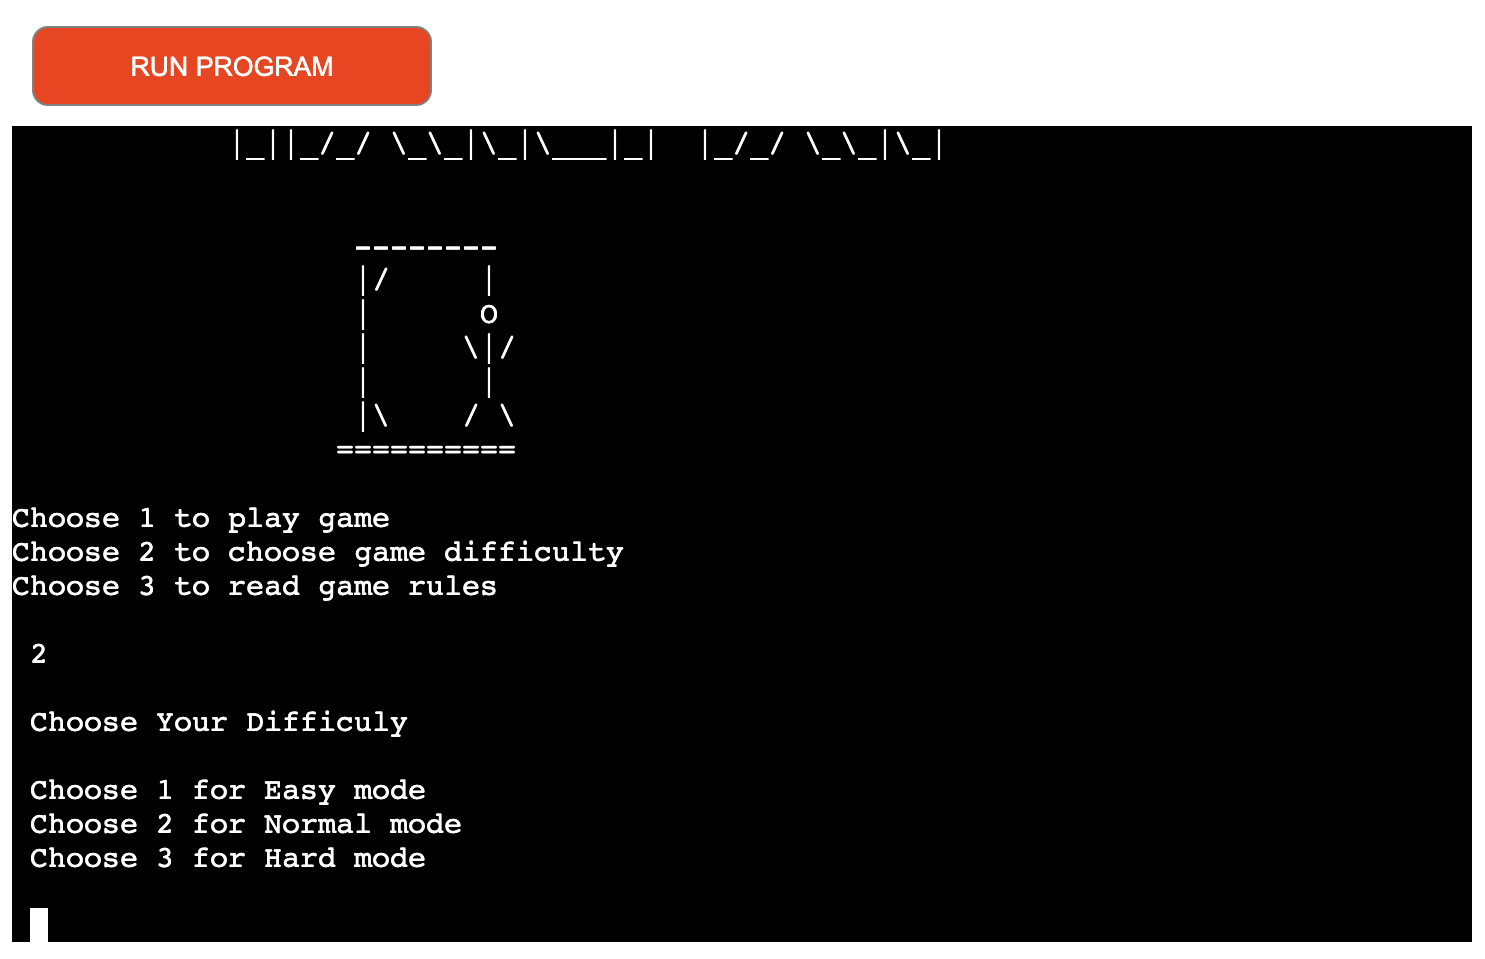
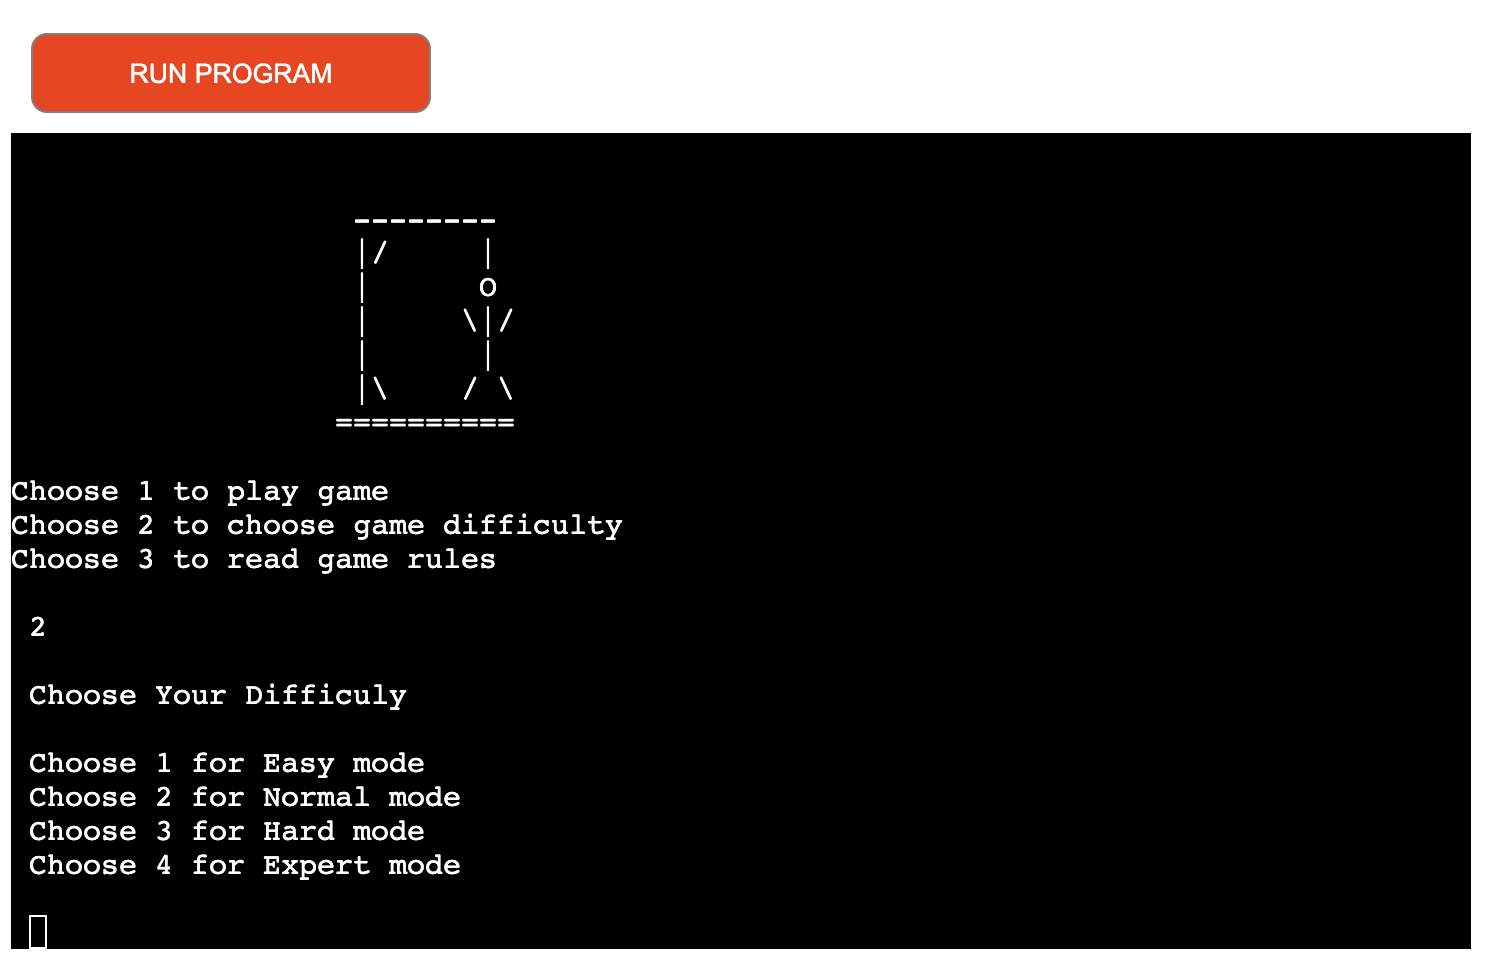
add in corrections to spelling and typos

diff --git a/run.py b/run.py
@@ -8,7 +8,7 @@ def game_menu():
     choose difficulty & view the rules of the game.
     """
     print("Choose 1 to play game")
-    print("Choose 2 to choose game difficulty")
+    print("Choose 2 to choose difficulty")
     print("Choose 3 to read game rules")
     choices = False
     while not choices:
@@ -79,9 +79,10 @@ def start_game(random_word, tries):
     """
     Play game, which sets the initial amount of lives based on players choices.
     when the game is over, based on the outcome of the
-    players guesses graphics will be displayed.
+    Players guess graphics will be displayed.
     Also when game is over gives the player options to
     play again or navigate back to the main menu.
+
     """
     hidden_word = "_" * len(random_word)
     game_over = False
@@ -140,9 +141,9 @@ def start_game(random_word, tries):
     else:
         print("OH NO!\n")
         print("It's a very unfortante day,"
-              " åyou was unable to save the man this time.")
-        print("The correct word was " + random_word + "\n"
-              "Maybe next time you will try harder.")
+              " you was unable to save the man this time.")
+        print("The correct word was " + random_word + ".\n"
+              "Better luck next time.")
         hangman()
 
     game_restart(tries)
@@ -307,7 +308,7 @@ def game_restart(tries):
             main()
 
         else:
-            print(f" You must type Y or N. You typed {(play_again)}")
+            print(f" You must type Y or N. You typed {(play_again)}.")
 
 
 def game_title():
@@ -335,23 +336,23 @@ def rules_of_game():
     print(
         """
         To be a hero today, your goal is simple.
-
-        Guess all letter that make up the word that will save a life.
-
+ 
+        Guess all letters correctly that make up the word that will save a life.
+ 
         If you guess wrong you will lose a life for every wrong guess.
-
+ 
         Be very mindful of your guesses, as too much wrong guesses
         will result in you reaching 0 lives.
-
+ 
         Once you have reached a total of 0 lives, you would have
-        then missed your oppurtunity to save a life,
+        then missed your opportunity to save the man,
         resulting in the man being hanged.
-
+ 
         But we have faith that you will be amazing
         and save many lives today. GODSPEED!
         """
     )
-    main_menu = input("To Return To Main Menu, Press Enter.\n")
+    main_menu = input("To Return To Game Menu, Press Enter.\n")
     print("\n")
     main()
 

diff --git a/README.md b/README.md
@@ -4,37 +4,37 @@ SAVE A LIFE HANGMAN is a fun and entertaining python terminal game, which is uti
 The game is aimed towards mainly develper IDE as a small break game. The game is also aimed to all ages, which have a interest in the programming space. 
 The game allows new and seniors to the coding space to enjoy the fun side of code, having the chance to play around a python based game.
  
-![Responsive Mockup](/assets/images/website-responsive.png)
+![Responsive Mockup](/assets/images/responsive-design.png)
  
 ## Features<hr>
  
 ### Existing Features
  
-- __Play Buttons__
- - Featured at the start of the game, the player is welcomed with the home screen, where the Trihub white logo is presented against the teal background.
- - Below the Trihub logo the user is presented with a play button in the center of the screen __GO!__ which links to the main game page where the  player can begin playing the quiz.
- - The other navigation links are the social pages, which are, Instagram, Discord, and Twitter which links to the different social platforms page opening up a new window when doing so.
- - The logo, play button and social links are all in a font that is congruent with the rest of the pages and a color that contrasts well with the background.
+ __GAME MENU__
+ - At the start if the game the player is greeted with the SAVE A LIFE HANGMAN logo,follow by a repersention of the hanged man. 
+ - Below all of that the player is presented with three options to choose from, which is 1 Play game, 2 choose difficutly and 3 read game rules. 
+ - The player is able to navigate freely through out the game menu to view all these options
  
-![GAME HOME PAGE](/assets/images/home-page.png)
+![GAME HOME PAGE](/assets/images/game-home-screen.png)
  
-- __Game Page__
- - The game page is displayed right after the home page and is identical in style and appearance as the home page.
+ __PLAY GAME__
+ - The play is able to play the game straight away by choosing option 1 which will provide the player with 7 lives, this is also known as the Normal mode. 
+ - upon the player choosing option 1 the game is instantly loaded up with the 7 lives and a random word to start guessing. 
  
-![Game Page](/assets/images/game.png)
+![Play Game](/assets/images/default-mode.png)
+
+ __DIFFICULTY SELECTION__
+ - The difficulty selction is displayed after choosing option 2, which will then display 4 options to choose from the for player. 
+ - 1 for Easy mode, 2 for Normal mode, 3 for Hard Mode and 4 for Expert mode. This gives the player more of a challenge in the game, allowing them to think more carefully before making a decision. 
+ - This Provide less lives the hard the game  is set with 10 for easy, 7 for normal, 5 for hard and lastly 3 for the experts. 
  
-- __Hud Section__
- - The hud section gives the user  information  which question they are on as well as how many questions they have left.
- - The questions tracker, all has a bar which fills as the player answers the questions, to be able to give the player a more visual representation of their progression through the game.
- - On the right hand side is the title score and score tracker, this section keeps a track of the amount of the answered questions that are correct.
+![Difficulty Selection](/assets/images/difficulty-selection.png)
  
-![Services](/assets/images/hud.png)
- 
-- __Questions Section__
- - The question section is displayed right above the four possible answers below.
- - This area changes when the player answers each time, and is congruent with both font and colour.
- 
- ![Question Section](/assets/images/questions.png)
+ __GAME RULES__
+ - Upon the player choosing option 3 the player is presented with the games rules, which explains to the player the basics of how the game works. 
+ - The player after reading the rules is then able to press enter to exit this seciton of the game and is relocated back to game menu, allowing them to choose other options of the two above it to play on. 
+
+ ![Game Rules](/assets/images/game-rules.png)
  
 - __Answer Section__
  - The answer section displays four labeled tabs which have each possible answers to the questions presented above it.
@@ -65,7 +65,7 @@ __End Game Page__
 ![Footer](/assets/images/endGame-page.png)
  
 ### Features Left to Implement
-- A High Scores page which enables players to keep track of their high scores when playing the game. <br>
+- Features i would like to implement later on would be to show all the  <br>
 This  will require them to log their name once finished the game and this will store both their score and name in a separate page which allows them to look back at,, at a later date to bring more of a competitive feel to the game.
  
 ## Testing<hr>
@@ -109,4 +109,8 @@ The live link from Heroku can be found here - https://save-a-life-hangman.heroku
 - The graphics for the title, game over and you win was taken from here. [Patorjk](https://patorjk.com/software/taag/#p=display&v=1&f=Small&t=SAVE%20A%20LIFE%0A%20%20HANGMAN)
 
 - This helped me understand and figure out synatax for python abit better for while loops. [W3SCHOOL](https://www.w3schools.com/python/python_while_loops.asp)
+
+- For the mock terminal to be able to deploy to a live site. [CodeInstitute](https://codeinstitute.net/)
+
+- Richard Wells for his good advice and guidence on breaking things down into manageable portions [RichardWells](https://github.com/D0nni387)
  
